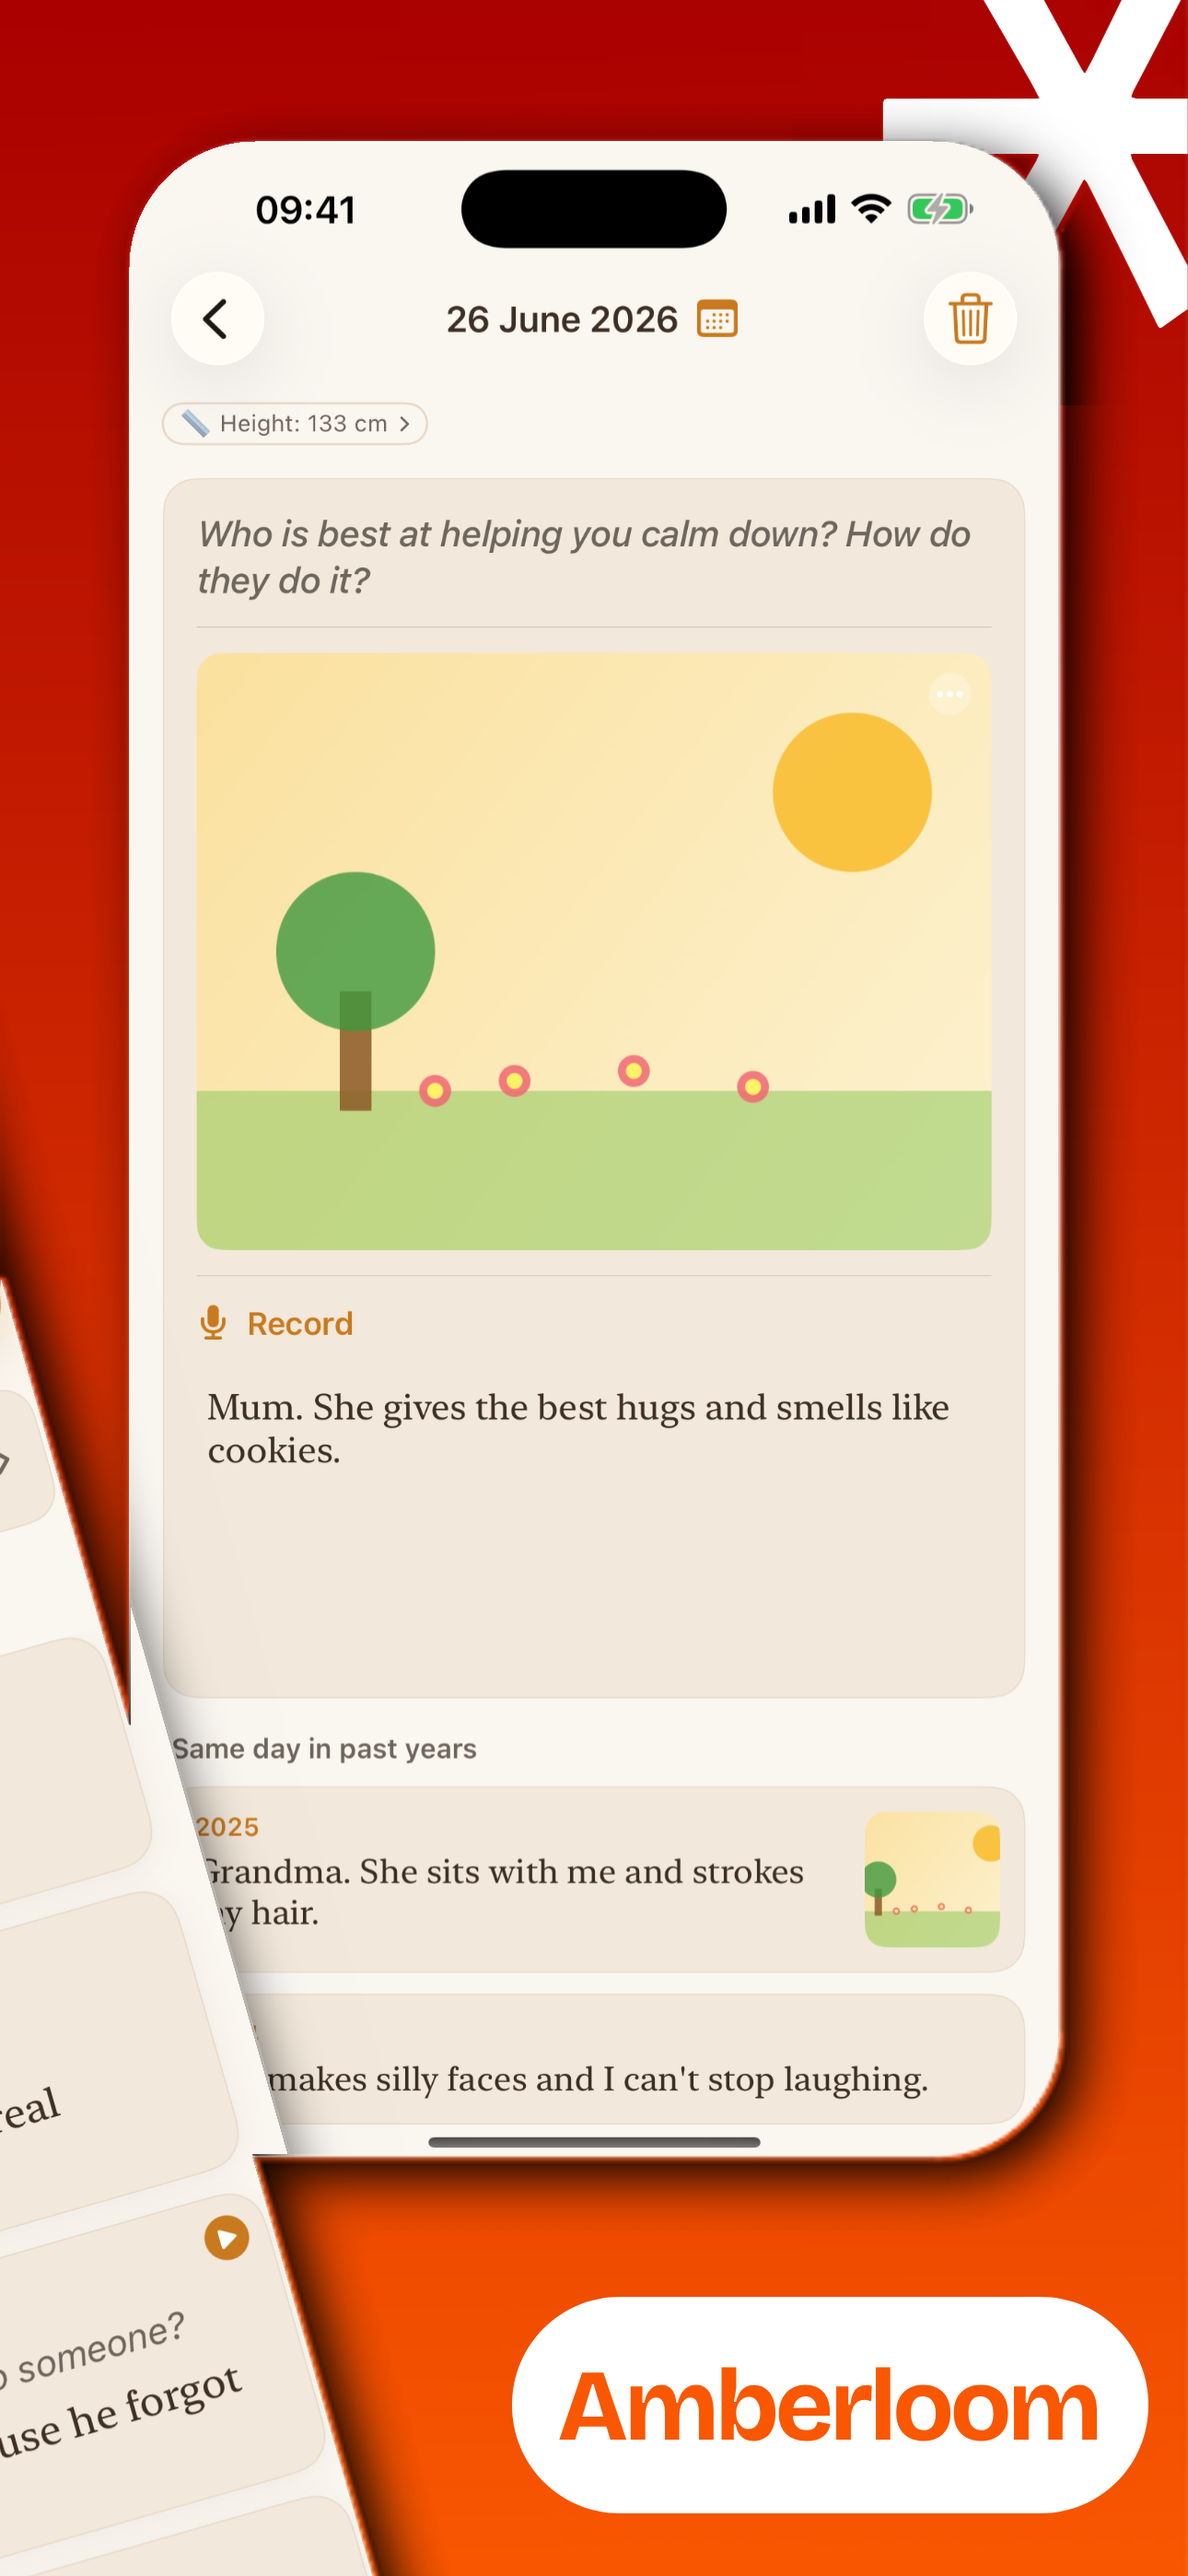
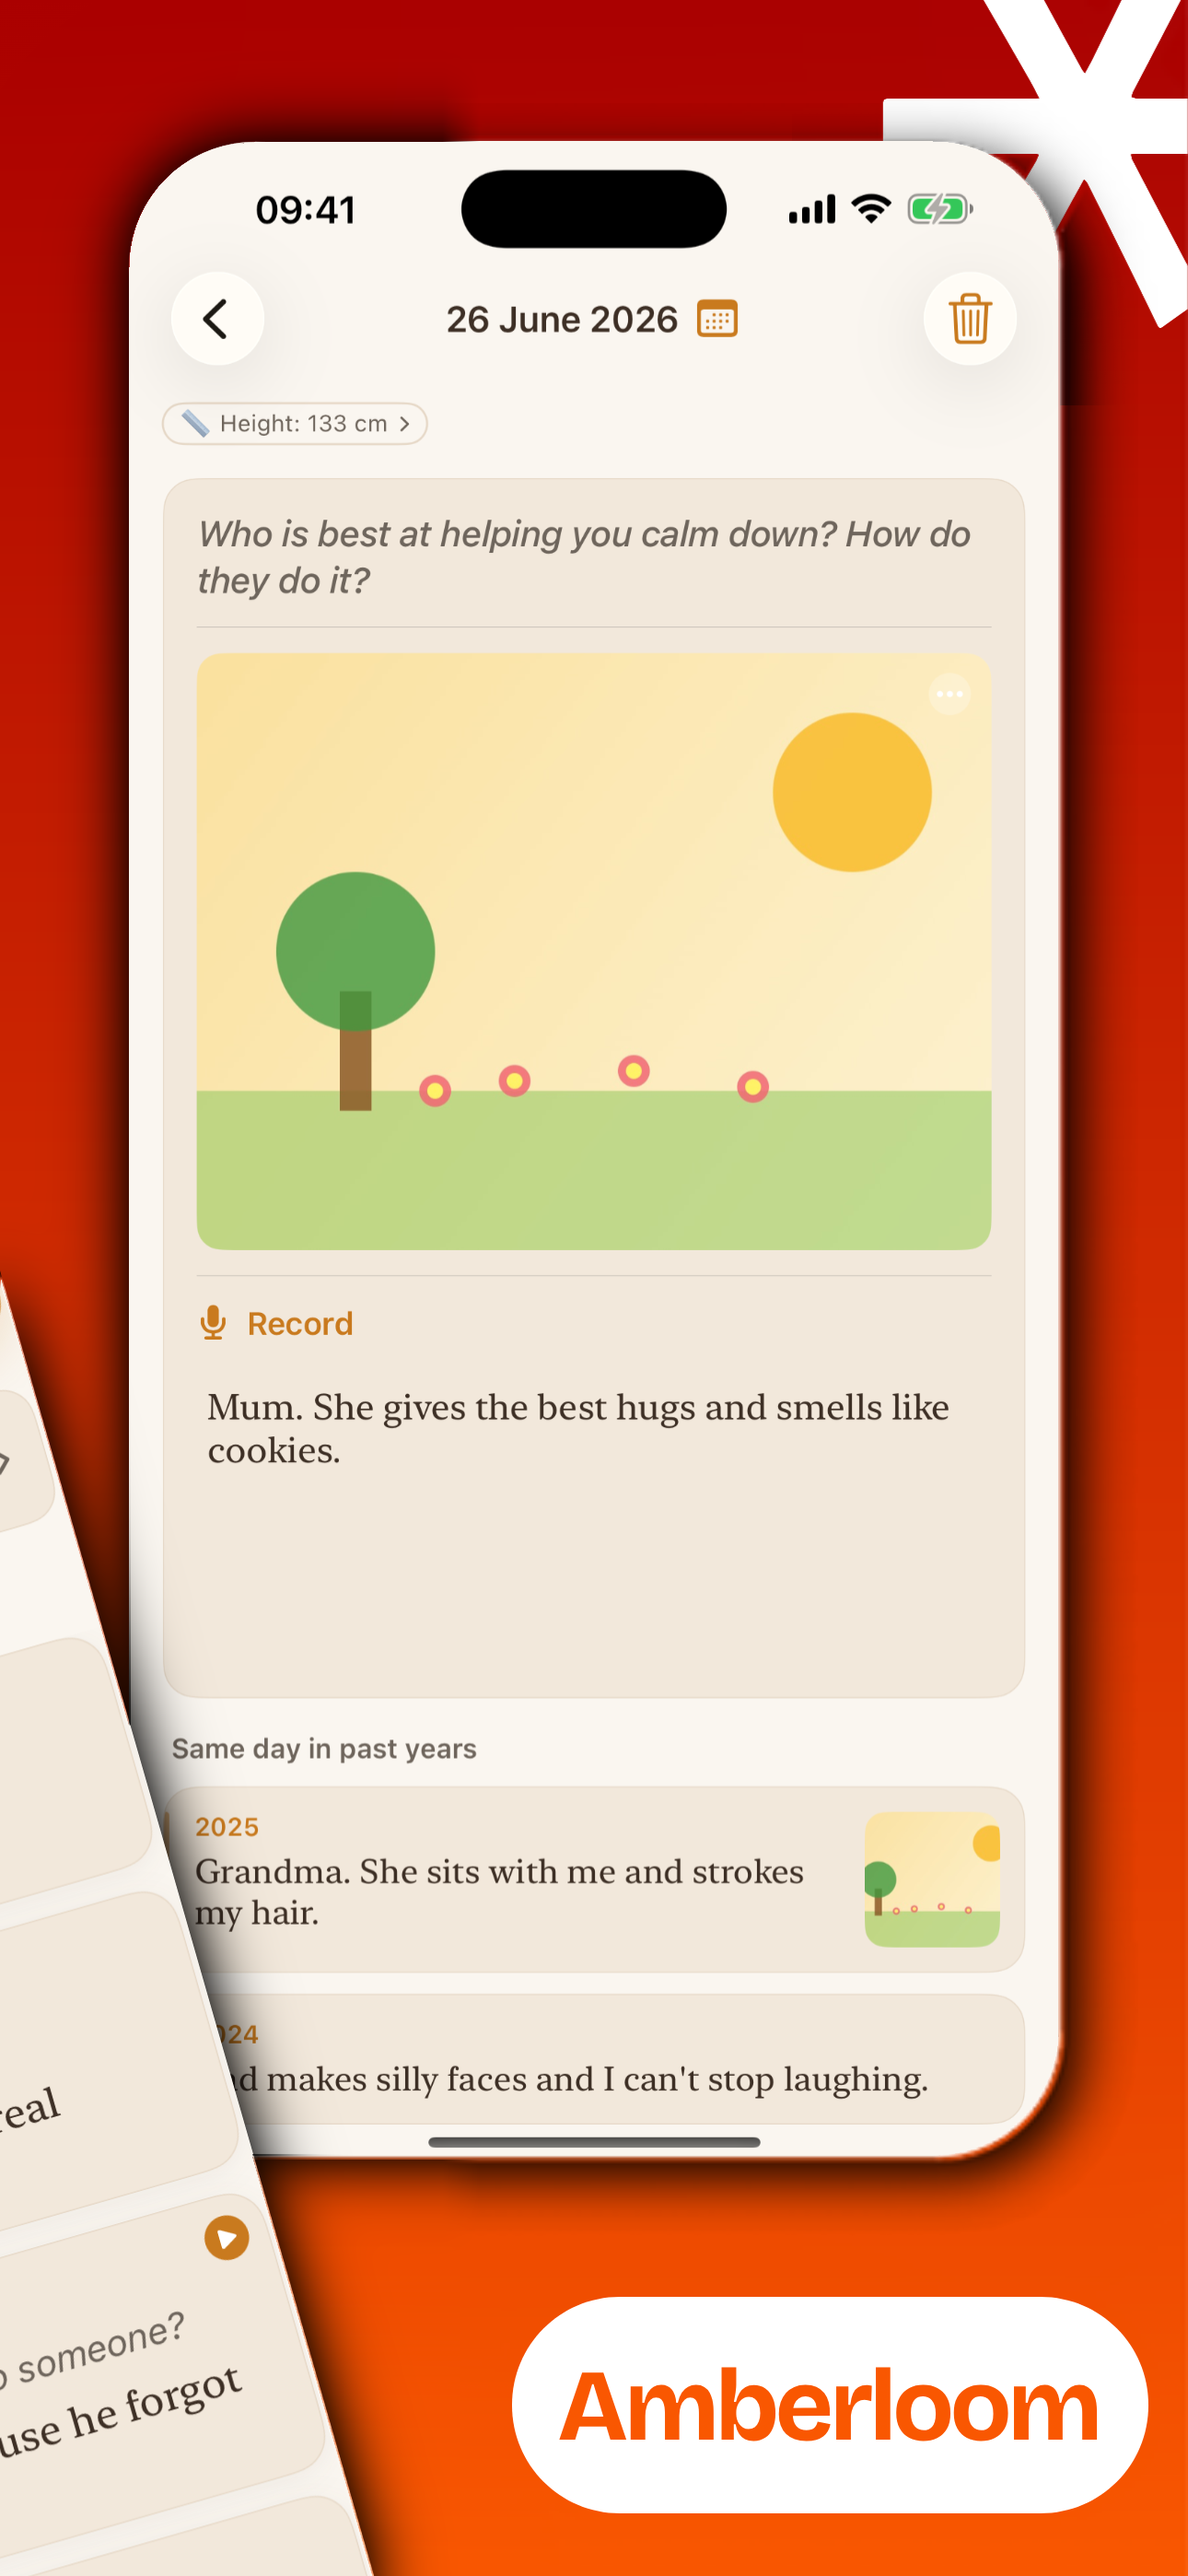
Page 2: one tilted phone edge and a consistent shadow at the seam
The tilted phone from page 1 was drawn at two positions on page 2: Canva's
over the background and 38 px further right over the front phone, leaving a
jog, a dark wedge with a hard vertical edge and a red fringe. The edge is now
Canva's everywhere, and the tilted phone casts one soft shadow (fitted to the
page's other phone shadows) on both the background and the front phone.
fix_seam.py redoes this from 65ed02a/3a291d0; only x < 520 changes.

Changed region(s): [[0.0, 0.0311, 0.4031, 1.0]]

diff --git a/design/screenshots-1.1/fix_seam.py b/design/screenshots-1.1/fix_seam.py
@@ -1,0 +1,80 @@
+"""Redo the shadows where page 1's tilted phone overlaps page 2's front phone.
+
+out = tilted phone on top of (front phone + background), with one consistent Canva-style
+halo (measured on this page: darkness 0.67 at the edge, gone by ~80 px) cast by the tilted
+phone onto everything behind it, and the front phone's own halo on the background.
+
+usage: fix_seam.py <site repo> <lang> <out.png>
+  front phone pixels come from 65ed02a (front phone fully visible, sharp),
+  tilted phone pixels from 3a291d0 (tilted on top).
+"""
+import io
+import os
+import subprocess
+import sys
+
+import cv2
+import numpy as np
+from PIL import Image
+
+repo, lang, out_path = sys.argv[1:4]
+sys.path.insert(0, os.path.join(repo, "design", "screenshots-1.1"))
+os.environ["LAYERS"] = os.path.join(repo, "design", "canva-layers")
+import build_phones as bp  # noqa: E402
+
+W, H = 1290, 2796
+SIGMA, K = 35.0, 1.34  # fitted to the page's existing phone shadows
+X_END, FEATHER = 520, 40  # only touch the seam area, left of the Amberloom pill
+
+
+def git_img(rev, path):
+    data = subprocess.run(["git", "-C", repo, "show", f"{rev}:{path}"], check=True, capture_output=True).stdout
+    return np.asarray(Image.open(io.BytesIO(data)).convert("RGB")).astype(np.float32)
+
+
+A = git_img("65ed02a", f"images/{lang}/image2.png")
+B = git_img("3a291d0", f"images/{lang}/image2.png")
+bg = np.asarray(Image.open(os.path.join(repo, "design", "canva-layers", f"bg_{lang}2.png")).convert("RGB")).astype(np.float32)
+
+# tilted phone body in page-2 coordinates (same geometry build_phones.py uses)
+tl, ex, ey, width = bp.rotated_geometry(lang)
+sw, sh = 1320, 2868
+body = np.zeros((sh, sw, 4), np.uint8)
+body[..., 3] = bp.rounded_mask((sh, sw), 0, 0, sw - 1, sh - 1, int(round(sw * 0.135)))
+DX = -38  # where the tilted phone actually sits on page 2 (fitted to its edge in the export)
+o = tl - np.array([W - DX, 0], np.float32)
+T = bp.warp(body, o, ex, ey, width, (W, H))[..., 3].astype(np.float32) / 255
+
+# front phone body: x 140-1149 in the layer, layer at top 112
+x0, x1, y0 = 140, 1149, 42 + 112
+y1 = int(sys.argv[4]) if len(sys.argv) > 4 else 2343
+F = bp.rounded_mask((H, W), x0, y0, x1, y1, int(round((x1 - x0 + 1) * 0.135))).astype(np.float32) / 255
+
+
+def halo(mask):
+    g = cv2.GaussianBlur(mask, (0, 0), SIGMA)
+    return 1 - np.clip(K * g, 0, 1)
+
+
+# the tilted phone's screen, drawn once at its real position from the full-resolution shot
+shot = cv2.imread(os.path.join(repo, "design", "screenshots-1.1", f"{lang}_1_timeline.png"), cv2.IMREAD_UNCHANGED)
+if shot.shape[2] == 3:
+    shot = cv2.cvtColor(shot, cv2.COLOR_BGR2BGRA)
+tilted = cv2.cvtColor(bp.warp(shot, o, ex, ey, width, (W, H)), cv2.COLOR_BGRA2RGB).astype(np.float32)
+chk = (cv2.erode((T > 0.99).astype(np.uint8), np.ones((9, 9), np.uint8)) > 0) & (F < 0.01)
+chk[:1000] = False
+chk[:, 480:] = False
+print("tilted vs export outside the front phone: mean abs diff %.1f over %d px" % (np.abs(tilted - B)[chk].mean(), chk.sum()))
+
+sT, sF = halo(T)[..., None], halo(F)[..., None]
+Fm, Tm = F[..., None], T[..., None]
+background = bg * sT * sF
+front = A * sT
+base = front * Fm + background * (1 - Fm)
+new = B * Tm + base * (1 - Tm)  # keep the tilted content as exported: it lines up with page 1
+
+xs = np.arange(W, dtype=np.float32)
+blend = np.clip((X_END - xs) / FEATHER, 0, 1)[None, :, None]
+out = new * blend + B * (1 - blend)
+Image.fromarray(out.round().clip(0, 255).astype(np.uint8)).save(out_path)
+print("wrote", out_path)
